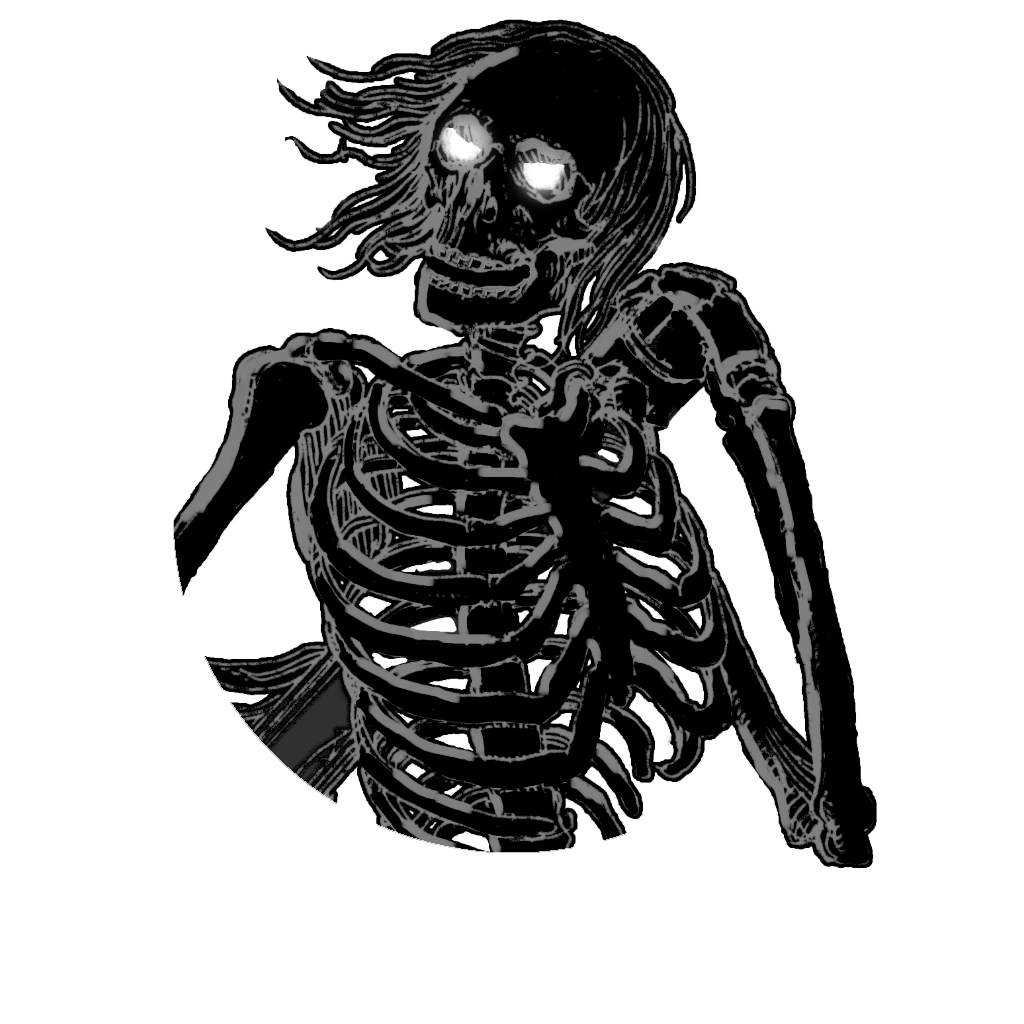
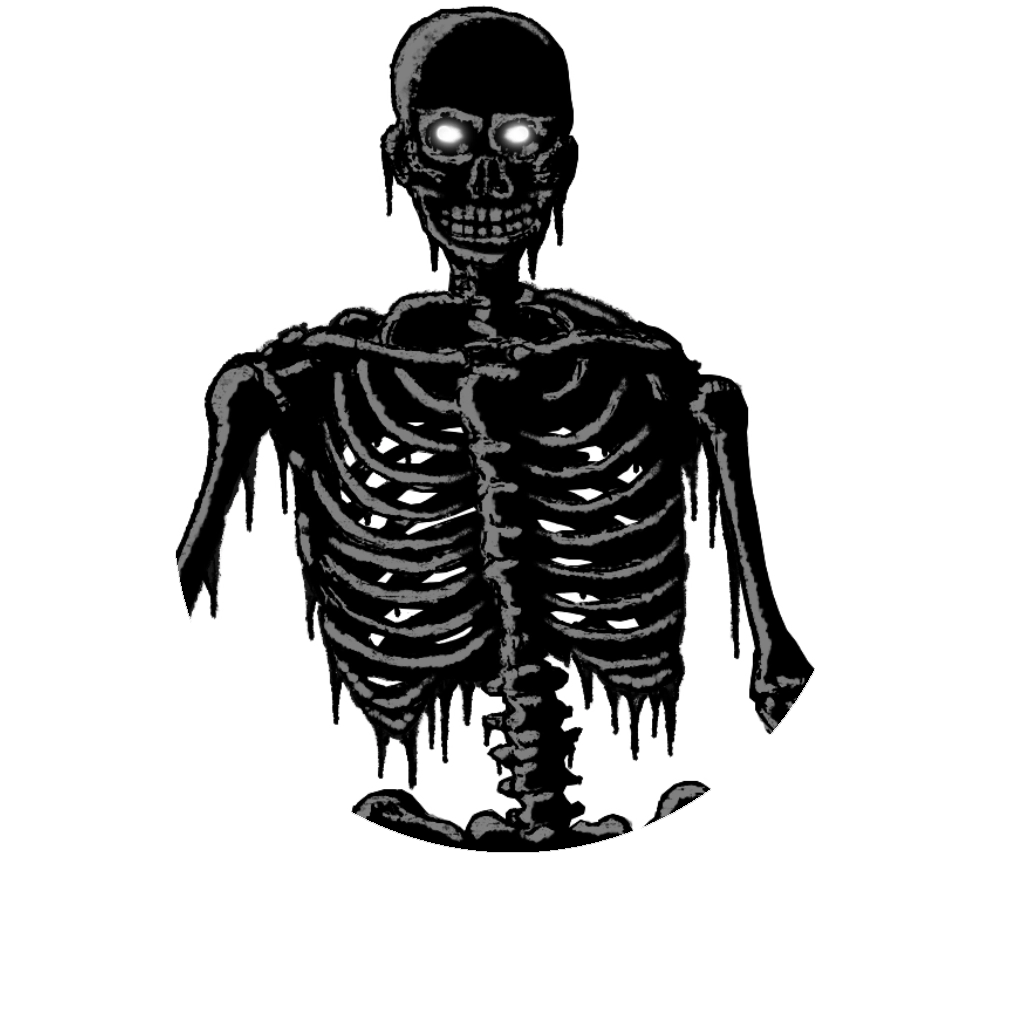
Added more public domain images and credits

Changed region(s): [[0.1562, 0.0, 0.875, 0.875], [0.25, 0.0625, 0.2812, 0.0938]]

diff --git a/CREDITS.md b/CREDITS.md
@@ -12,24 +12,30 @@ All images in `assets/public-domain` are Public Domain / CC0.
 By the time they were first integrated ino the system, they could be found at:
 
 - angel-standard: https://en.wikipedia.org/wiki/Rider%E2%80%93Waite_Tarot#/media/File:RWS_Tarot_02_High_Priestess.jpg
-- creation-standard: https://openclipart.org/detail/286944/caryatis / https://archive.org/details/bub_gb_g0tl92K8SjcC/page/73/mode/2up (pg. 73)
-- demon-standard: https://commons.wikimedia.org/wiki/File:Ill_dict_infernal_p0139-123_buer.jpg
+- beast-aquatic: https://www.flickr.com/photos/britishlibrary/11298781996/in/gallery-197319879@N05-72157721802210364/
 - beast-insectile: https://commons.wikimedia.org/wiki/File:Livre_Nos_ennemis,_par_Mangin,_illustration_par_Gerlier_002.jpg + https://commons.wikimedia.org/wiki/File:Hermitcrab2_(PSF).png
 - beast-reptile: https://commons.wikimedia.org/wiki/File:Gila_Monster_(PSF).png
 - beast-standard: https://openclipart.org/detail/225182/stylised-lion / https://www.flickr.com/photos/britishlibrary/11277892544/in/gallery-202881225@N04-72157723816998307/
 - beast-flying: https://openclipart.org/detail/18023/eagle-displayed / https://archive.org/details/completeguidetoh00foxdrich/page/236/mode/2up (pg. 237)
+- creation-object: https://commons.wikimedia.org/wiki/File:Samovar_(PSF).png
+- creation-standard: https://openclipart.org/detail/286944/caryatis / https://archive.org/details/bub_gb_g0tl92K8SjcC/page/73/mode/2up (pg. 73)
+- demon-standard: https://commons.wikimedia.org/wiki/File:Ill_dict_infernal_p0139-123_buer.jpg
 - elemental-standard: https://artvee.com/dl/letter-v-2/
 - faerie-standard: https://openclipart.org/detail/261655/faun-2 / https://commons.wikimedia.org/wiki/File:Faun_2_(PSF).png
 - faerie-flying: https://commons.wikimedia.org/wiki/File:Piotru%C5%9B_Pan_p0079.png
 - fiend-standard: https://www.flickr.com/photos/internetarchivebookimages/14779553302/in/gallery-196409093@N02-72157721099800595/
+- humanoid-archer-x1.5: https://www.flickr.com/photos/internetarchivebookimages/14756230576/in/gallery-204165552@N03-72157724710308595/
 - humanoid-brute-x1.5: https://www.flickr.com/photos/britishlibrary/10997217245/in/gallery-147054951@N02-72157721265356526/
 - humanoid-caster-x1.5: https://en.wikipedia.org/wiki/Rider%E2%80%93Waite_Tarot#/media/File:RWS_Tarot_01_Magician.jpg
 - humanoid-robed: https://www.flickr.com/photos/britishlibrary/11183488706/in/gallery-200554758@N02-72157722734463008/
 - humanoid-warrior: https://www.flickr.com/photos/britishlibrary/11266301605/in/gallery-200554758@N02-72157722734463008/
 - monster-humanoid: https://commons.wikimedia.org/wiki/File:Pie_Grande.jpg
 - monster-standard: https://openclipart.org/detail/235851/dragon-3 / https://archive.org/details/bnf-bpt6k6549169n/mode/2up
+- monster-tentacles: https://commons.wikimedia.org/wiki/File:Octopus_2_(PSF).png
 - monster-worm: https://www.flickr.com/photos/biodivlibrary/8595535216/in/album-72157646516626124
 - monster-flying: https://openclipart.org/detail/223454 / https://www.flickr.com/photos/britishlibrary/11300855894/in/album-72157691107046960
 - plant-standard: https://www.flickr.com/photos/britishlibrary/11221082433/in/album-72157691107046960
 - sprit-standard: https://openclipart.org/detail/231498/ghost / https://www.flickr.com/photos/mechanicalcuratorcuttings/10504899285/
-- undead-standard: https://www.nga.gov/artworks/226602-skeleton-man-bow-and-arrow
+- undead-archer-x1.5: https://www.nga.gov/artworks/226602-skeleton-man-bow-and-arrow
+- undead-caster-x.15: https://www.flickr.com/photos/britishlibrary/11006825406/in/gallery-203816651@N08-72157724321281339/
+- undead-standard: https://commons.wikimedia.org/wiki/File:Studies_of_three_skeleton,_from_the_'Principios_para_estudiar_el_Nobil%C3%ADsimo_y_Real_arte_de_la_Pintura'_(Madrid_1693)_MET_DP876059.jpg